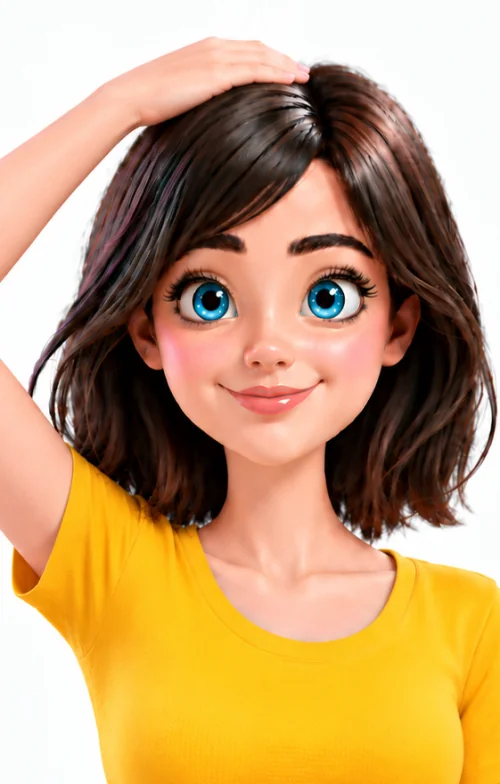
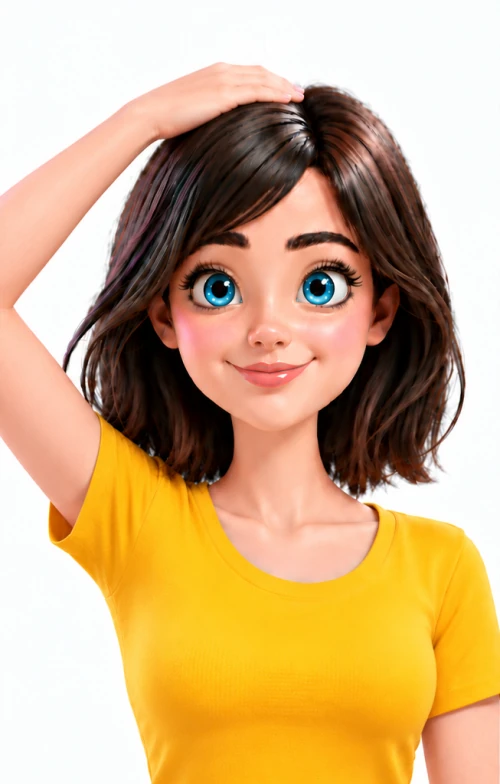
Kruin: scherpere tik-animatie (ruimere uitsnede zoals sleutelbeen, hogere kwaliteit, kloppen i.p.v. schuiven) (sw v33)

diff --git a/kloppunten/kloppunt-kruin.html b/kloppunten/kloppunt-kruin.html
@@ -283,8 +283,8 @@
             
             <div class="video-container">
                 <picture>
-                        <source srcset="../avatar/hoofd-still.webp" media="(prefers-reduced-motion: reduce)">
-                        <img src="../avatar/hoofd-tap.webp" alt="Klopt met vlakke vingers bovenop haar hoofd" class="tapping-image" width="500" height="784">
+                        <source srcset="../avatar/hoofd-still.webp?v=33" media="(prefers-reduced-motion: reduce)">
+                        <img src="../avatar/hoofd-tap.webp?v=33" alt="Klopt met vlakke vingers bovenop haar hoofd" class="tapping-image" width="500" height="784">
                     </picture>
             </div>
 

diff --git a/sw.js b/sw.js
@@ -1,6 +1,6 @@
 // Service worker voor EFT met Paula
 // Verhoog CACHE_VERSION bij elke wijziging van de app-bestanden.
-const CACHE_VERSION = 'v32';
+const CACHE_VERSION = 'v33';
 const CACHE_NAME = 'eft-paula-' + CACHE_VERSION;
 
 const APP_SHELL = [
